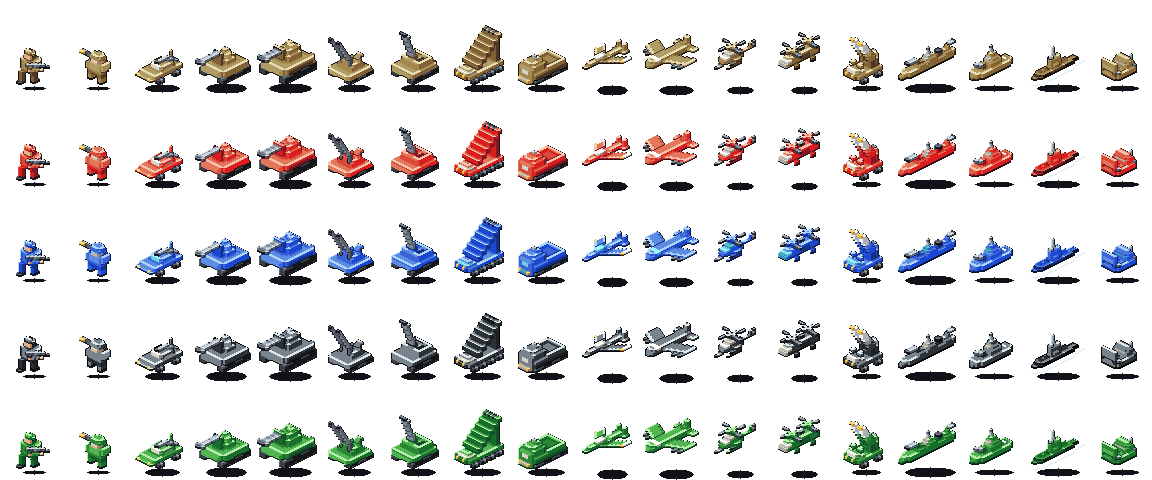
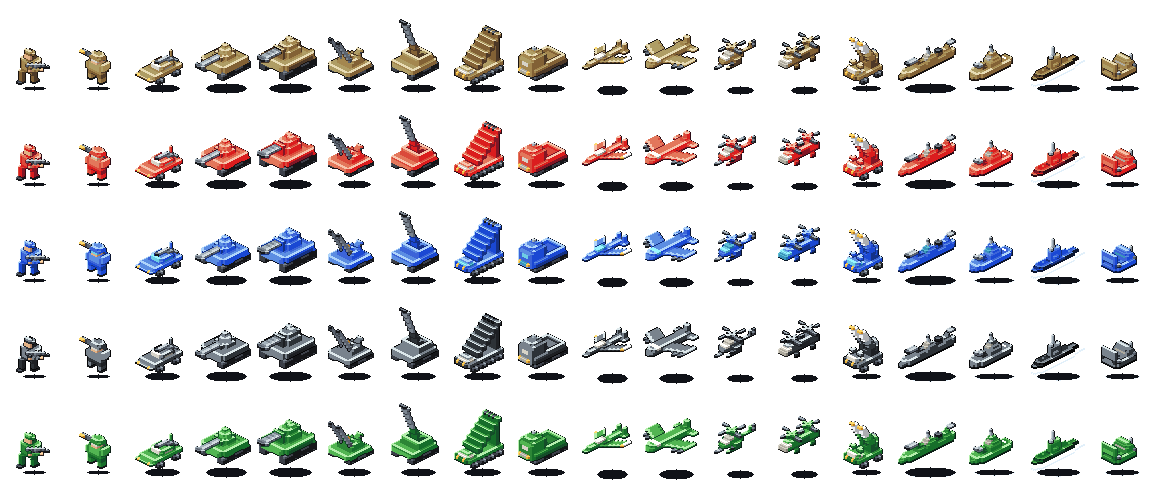
Author the move clip for the five tracked hulls
MOVE_A is each unit's pose-A voxels with the tread stripe at phase 0 —
weapons at travel-lock, since a vehicle under way does not lay its gun or
recoil. MOVE_B advances the stripe a half period and jolts the whole model
one board texel of ride height with a new `_roll`, authored in the model so
placement keeps origin, footprint and the cast shadow pinned to pose A.

Rung 1, worst of the five liveries, MOVE_A against MOVE_B: tank 28
silhouette texels / 1.96 shimmer / 0.003 mass drift, md_tank 30 / 2.33 /
0.002, anti_air 28 / 1.64 / 0.000, artillery 28 / 2.14 / 0.000, apc 26 /
1.92 / 0.000.

`_track`'s phase now reads `beat(pose)` rather than the pose's own value,
which is the same number for all four poses and keeps A and B byte-frozen.
Only `units_atlas_move_b.png` moves: MOVE_A renders what the ambient
fallback already did.

diff --git a/spritegen/units.py b/spritegen/units.py
@@ -25,6 +25,16 @@ a texel across: it re-tones the inside of a shape that holds still, and the
 sprite boils instead of animating. Measured, that was every land vehicle on
 the sheet at zero changed silhouette texels (`tests/measure_motion.py`).
 
+The move clip is the same machine UNDER WAY, and it is a gait and never a
+journey: the game tweens the sprite across the board itself, so a move frame
+may not translate the hull along its own run — that would double the travel
+and slide the unit out of the cell it is standing in. What a move frame owns
+is the running gear and the chassis's reaction to it. On the tracked family
+that is the tread stripe walking a half period (`_track`'s `phase`) and the
+whole hull jolting one board texel of ride height on the off-beat (`_roll`),
+with the weapons left at travel-lock — pose A's gun, not pose B's laid-up or
+recoiled one, because a vehicle on the move does not lay its gun.
+
 Only the uids in `MOVES` author the move clip; every other unit falls back to
 its ambient counterpart in `build_model`, so the move sheets are valid from
 the day the plumbing lands and a family arrives one unit at a time. That
@@ -92,10 +102,10 @@ def beat(pose: Pose) -> bool:
     return Pose(pose) in (Pose.B, Pose.MOVE_B)
 
 
-# The uids that author the move clip. Empty for now: the move sheets ship as
-# copies of the ambient pair and each family task adds its units here as it
-# hand-places their strides.
-MOVES: frozenset[str] = frozenset()
+# The uids that author the move clip. Everything else is served its ambient
+# counterpart, so the move sheets stay valid while the families arrive one at
+# a time. First in: the five tracked hulls.
+MOVES: frozenset[str] = frozenset({"tank", "md_tank", "anti_air", "artillery", "apc"})
 
 
 # ---------------------------------------------------------------------------
@@ -255,6 +265,27 @@ def _shift(
         del m.vox[key]
     for (x, y, z), mat in moved.items():
         m.vox[(x + dx, y + dy, z + dz)] = mat
+
+
+def _roll(m: Model, dz: int) -> None:
+    """Jolt the WHOLE model `dz` — the chassis riding over ground.
+
+    Two things make this the move clip's bob rather than a slide. It is
+    authored in the MODEL, so `atlas.cell_placement` still pins the sprite by
+    pose A's crop: origin, `footprint_w` and `ground` are pose-invariant and
+    the cast shadow stays nailed to the ground row while the hull lifts off
+    it. And it is vertical: the wide land hulls have no horizontal margin left
+    in the 64x96 cell — a whole-body `(dx -1, dy +1)` on the tank overflows
+    `voxel.place_in_cell` outright — and a hull that translated along its own
+    run would say the vehicle had driven off, which is the game's tween's job
+    and never the sheet's.
+
+    `dz = 2` is one board texel, the same unit `_shift` moves an assembly by.
+    """
+    xs = [x for x, _, _ in m.vox]
+    ys = [y for _, y, _ in m.vox]
+    zs = [z for _, _, z in m.vox]
+    _shift(m, (min(xs), max(xs), min(ys), max(ys), min(zs), max(zs)), dz=dz)
 
 
 # ---------------------------------------------------------------------------
@@ -551,10 +582,18 @@ def tank(pose: Pose = Pose.A) -> Model:
     silhouette texels at rung 1, 26 at rung 2. The tread walks its link
     stripe a half period under it, and the hull's x/y extents are untouched,
     so the footprint and the cast shadow are unchanged.
+
+    The move clip leaves the gun where pose A carries it — a tank under way
+    does not lay its barrel — and animates the running gear instead: MOVE_A is
+    pose A with the link stripe at phase 0, MOVE_B advances the stripe a half
+    period and jolts the WHOLE hull `dz = +2` (`_roll`), one board texel of
+    ride height over rough ground. Bouncing only the sprung mass was the other
+    reading and it opens a 4px gap between hull and tread here. 28 changed
+    silhouette texels at rung 1, 1.96 shimmer, 0.003 mass drift.
     """
     m = Model()
-    _track(m, 0, 2, 0, 13, 2, phase=pose)
-    _track(m, 9, 11, 0, 13, 2, phase=pose)
+    _track(m, 0, 2, 0, 13, 2, phase=int(beat(pose)))
+    _track(m, 9, 11, 0, 13, 2, phase=int(beat(pose)))
     # hull in desaturated armour; the turret crown carries the team color
     m.box(0, 11, 1, 12, 3, 5, "hull")
     m.box(1, 10, 13, 13, 3, 5, "hull")
@@ -584,6 +623,8 @@ def tank(pose: Pose = Pose.A) -> Model:
         # rebuilt down to the deck as the mount that holds it there
         _shift(m, (4, 7, 10, 20, 6, 7), dz=4)
         m.box(4, 7, 10, 10, 6, 9, "hull_dk")
+    if pose is Pose.MOVE_B:
+        _roll(m, 2)
     return m
 
 
@@ -596,10 +637,17 @@ def md_tank(pose: Pose = Pose.A) -> Model:
     turret that stays where it was. One texel is enough here because this
     barrel is three voxels wide — 6 changed silhouette texels at rung 1, 20
     at rung 2, where the MBT's thinner gun needed two.
+
+    The move clip walks the stripe and rolls the whole hull `dz = +2` on
+    MOVE_B with the gun left at pose A's travel-lock, as the MBT's does. The
+    roll is UP and never down even though this is the tallest thing on the
+    land roster: `voxel.place_in_cell` still takes it, and a settle would read
+    as the suspension giving way rather than the chassis riding. 30 changed
+    silhouette texels at rung 1, 2.33 shimmer, 0.002 mass drift.
     """
     m = Model()
-    _track(m, 0, 2, 0, 15, 3, phase=pose)
-    _track(m, 10, 12, 0, 15, 3, phase=pose)
+    _track(m, 0, 2, 0, 15, 3, phase=int(beat(pose)))
+    _track(m, 10, 12, 0, 15, 3, phase=int(beat(pose)))
     # hull with armoured side skirts over the tracks
     m.box(0, 12, 1, 14, 4, 6, "hull")
     m.box(10, 12, 2, 13, 4, 5, "hull_dk")
@@ -630,6 +678,8 @@ def md_tank(pose: Pose = Pose.A) -> Model:
     m.box(5, 7, 21, 21, 10, 10, "bore")
     if pose is Pose.B:
         _shift(m, (4, 8, 12, 21, 7, 11), dz=2)
+    if pose is Pose.MOVE_B:
+        _roll(m, 2)
     return m
 
 
@@ -641,10 +691,17 @@ def anti_air(pose: Pose = Pose.A) -> Model:
     that grows the two voxels with them, so the battery tracks a target and
     the raked lines — the identity — are what the player sees move: 8 changed
     silhouette texels at rung 1, 31 at rung 2.
+
+    The move clip holds the battery at pose A's travelling elevation — a flak
+    track under way is not tracking — and gives the movement to the running
+    gear: stripe at phase 0 on MOVE_A, stripe advanced plus a whole-model
+    `dz = +2` on MOVE_B. 28 changed silhouette texels at rung 1, 1.64
+    shimmer, 0.000 mass drift; the raked barrels riding the jolt are most of
+    it, which is the right part of this unit to see move.
     """
     m = Model()
-    _track(m, 0, 2, 0, 11, phase=pose)
-    _track(m, 8, 10, 0, 11, phase=pose)
+    _track(m, 0, 2, 0, 11, phase=int(beat(pose)))
+    _track(m, 8, 10, 0, 11, phase=int(beat(pose)))
     # low hull in desaturated armour
     m.box(0, 10, 1, 11, 2, 3, "hull")
     m.box(1, 9, 12, 12, 2, 3, "hull_lt")
@@ -680,6 +737,8 @@ def anti_air(pose: Pose = Pose.A) -> Model:
         for x in (3, 7):
             _shift(m, (x, x, 9, 14, 8, 18), dz=2)
             m.box(x, x, 8, 8, 8, 9, "gunmetal_dk")
+    if pose is Pose.MOVE_B:
+        _roll(m, 2)
     return m
 
 
@@ -705,10 +764,17 @@ def artillery(pose: Pose = Pose.A) -> Model:
     silhouette texels at rung 1 and 46 at rung 2, at 1.75 shimmer. The walls,
     the spade and the hull hold their ground, which is what makes it a gun
     firing rather than a vehicle sinking.
+
+    The move clip does NOT recoil: a gun fires from a halt, so MOVE_A and
+    MOVE_B both carry pose A's erected howitzer and the animation is the
+    stripe walking under a hull rolled `dz = +2` on the off-beat. The
+    near-vertical spike is what pays for it — it rides the jolt across open
+    sky, where a texel is a texel. 28 changed silhouette texels at rung 1,
+    2.14 shimmer, 0.000 mass drift.
     """
     m = Model()
-    _track(m, 0, 2, 0, 12, 2, phase=pose)
-    _track(m, 8, 10, 0, 12, 2, phase=pose)
+    _track(m, 0, 2, 0, 12, 2, phase=int(beat(pose)))
+    _track(m, 8, 10, 0, 12, 2, phase=int(beat(pose)))
     m.box(0, 10, 1, 12, 3, 4, "hull")
     m.box(1, 9, 13, 13, 3, 3, "hull_lt")
     # open casemate: a deep armoured wall ring around the gun pit, no roof;
@@ -745,6 +811,8 @@ def artillery(pose: Pose = Pose.A) -> Model:
         # ones, over the 5.0 shimmer bar. The full stroke clears the spike's
         # own width off the top of the sky.
         _shift(m, (3, 7, 6, 12, 8, 27), dz=-4)
+    if pose is Pose.MOVE_B:
+        _roll(m, 2)
     return m
 
 
@@ -835,10 +903,18 @@ def apc(pose: Pose = Pose.A) -> Model:
     scored — the old model had nothing else a texel could be seen on, and the
     open troop hatch tried then changed zero texels at either rung because
     this projection buries a roof detail under the roof's own far edge.
+
+    The move clip keeps the cab up — the nod is a parked transport settling —
+    and rolls the whole hull, dropped ramp and all, `dz = +2` on MOVE_B over a
+    stripe walked a half period. The ramp riding the roll is deliberate: it is
+    bolted to the tail, so leaving it on the ground while the hull lifted
+    would tear the outline. It clears the cell at +2, so the pair needed no
+    inversion. 26 changed silhouette texels at rung 1, 1.92 shimmer, 0.000
+    mass drift.
     """
     m = Model()
-    _track(m, 0, 2, 0, 15, phase=pose)
-    _track(m, 6, 8, 0, 15, phase=pose)
+    _track(m, 0, 2, 0, 15, phase=int(beat(pose)))
+    _track(m, 6, 8, 0, 15, phase=int(beat(pose)))
     # low hull tub running the whole length — the floor the cargo bay and the
     # cab both stand on, and one voxel narrower than any gun tank's
     m.box(0, 8, 1, 15, 2, 4, "hull")
@@ -896,6 +972,8 @@ def apc(pose: Pose = Pose.A) -> Model:
         # replaces moved a corner of a slab; this moves the tallest mass the
         # unit owns.
         _shift(m, (1, 7, 10, 17, 2, 12), dz=-2)
+    if pose is Pose.MOVE_B:
+        _roll(m, 2)
     return m
 
 
